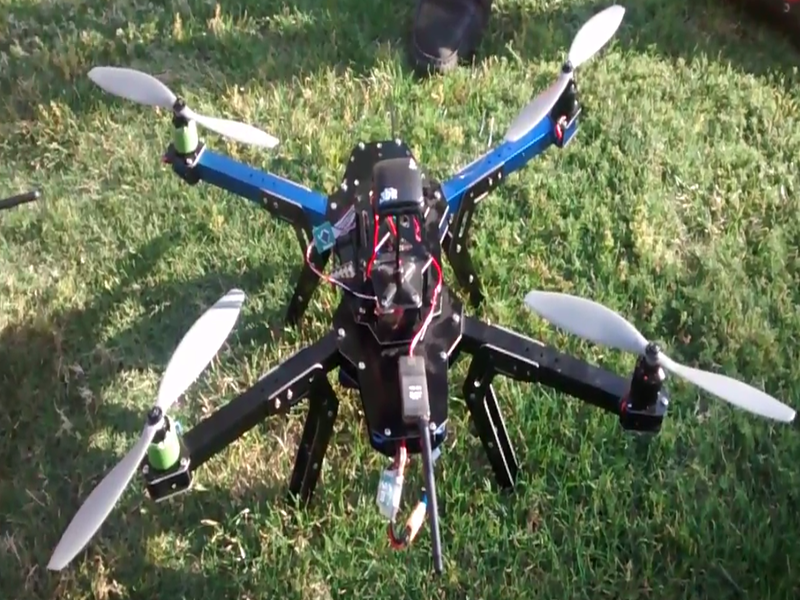
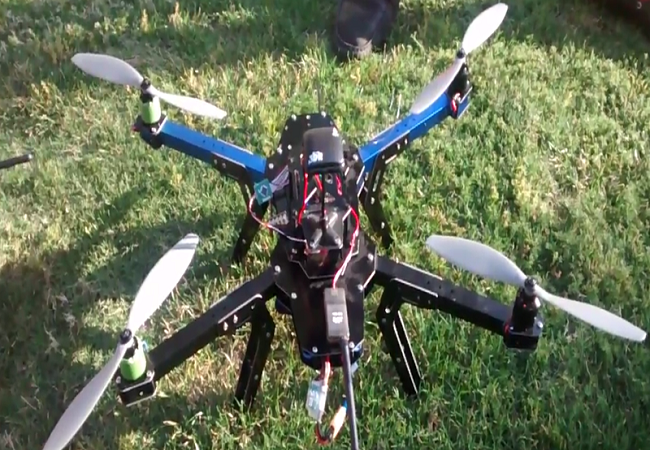
FIxed Projects picture sizing
Made all previews 650x450 pixels

diff --git a/projects.html b/projects.html
@@ -108,7 +108,7 @@
                 </div>
                 <div class="col-lg-4 col-sm-6">
                     <a href="#portfolio3" class="portfolio-box">
-                        <img src="img/portfolio/quadcopter2.jpg" class="img-responsive" alt="">
+                        <img src="img/portfolio/quadcopter2.png" class="img-responsive" alt="">
                         <div class="portfolio-box-caption">
                             <div class="portfolio-box-caption-content">
                                 <div class="project-category text-faded">
@@ -123,7 +123,7 @@
                 </div>
                 <div class="col-lg-4 col-sm-6">
                     <a href="#portfolio4" class="portfolio-box">
-                        <img src="img/portfolio/map2.jpg" class="img-responsive" alt="">
+                        <img src="img/portfolio/map2.png" class="img-responsive" alt="">
                         <div class="portfolio-box-caption">
                             <div class="portfolio-box-caption-content">
                                 <div class="project-category text-faded">
